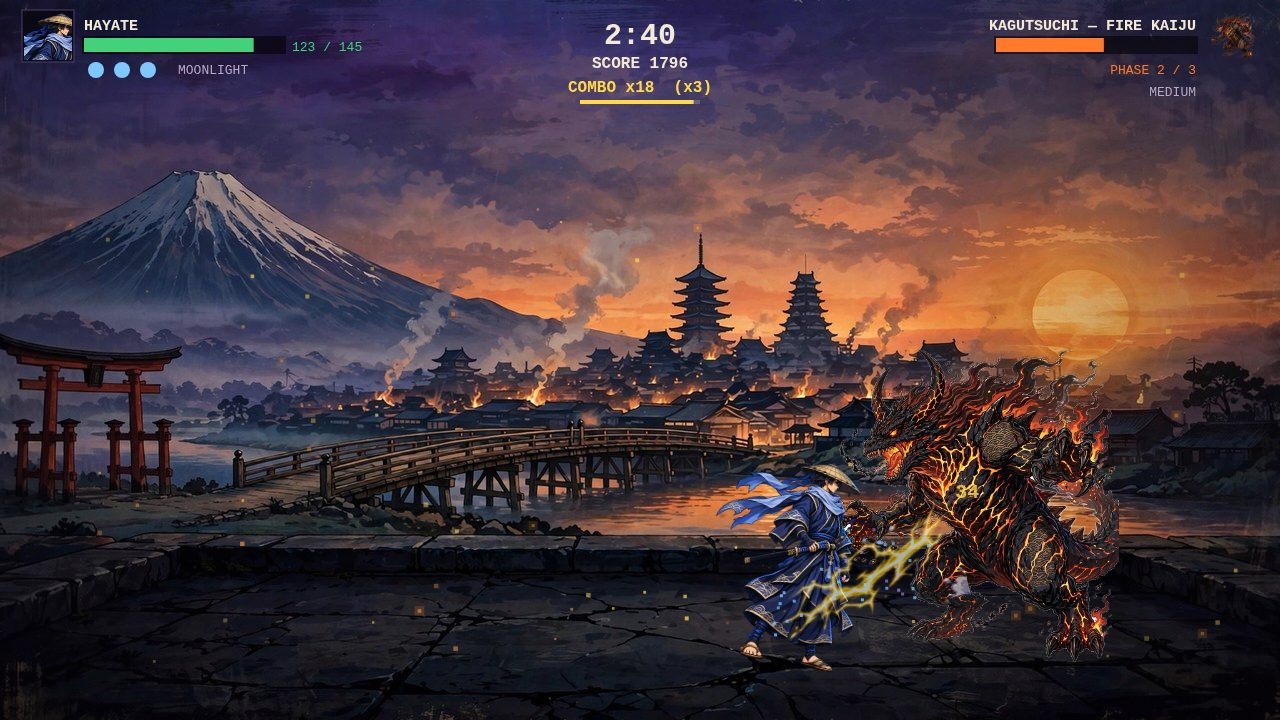
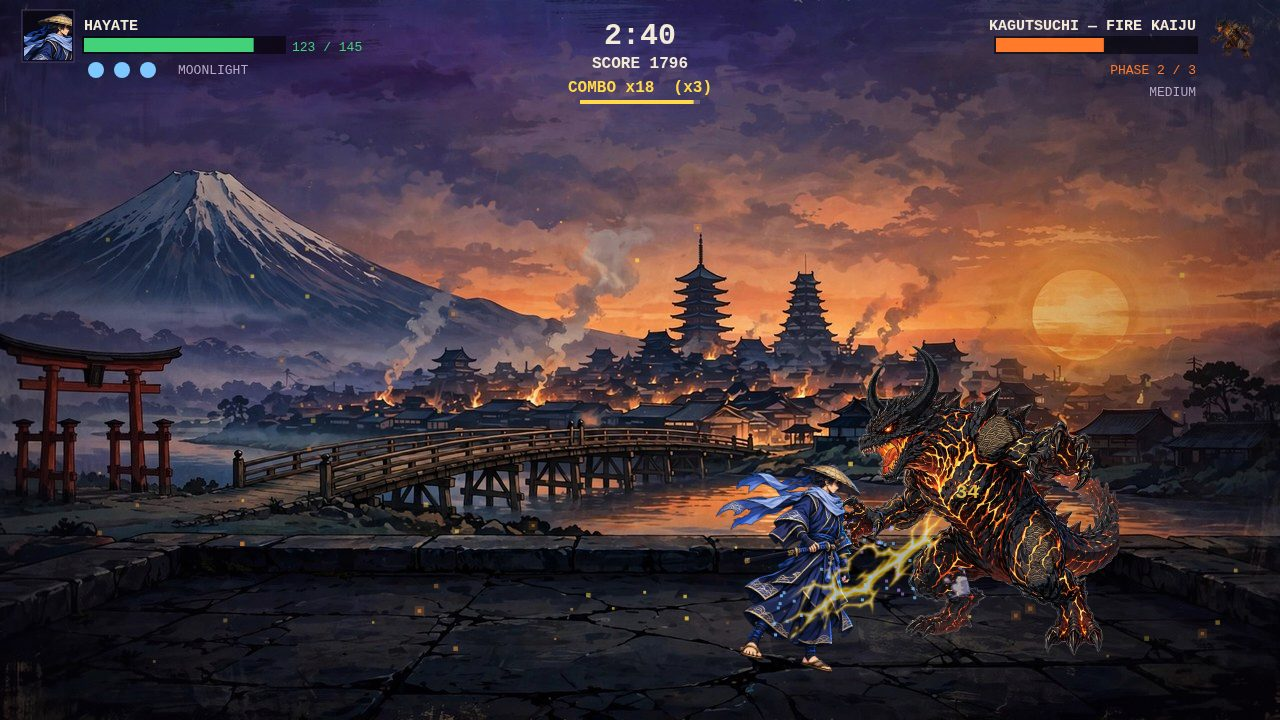
Clean kaiju art + idle breathing (no effects on characters)
- All three kaiju redrawn CLEAN, per user feedback: no smoke, no
  clouds, no flames, no water swirls, no lightning, no aura baked
  into the art — just the creature itself, a solid clean silhouette,
  same as the samurai art. The old kaiju had purple smoke (dragon),
  flame wisps (fire) and water swirls (sea) baked into the PNGs.
- Removed the code-drawn phase-3 aura circle around the kaiju — no
  added effects on the characters. Phase still reads in the HUD.
- Idle life, so the characters are never stiff: the kaiju breathes
  (slow 4px bob + a faint 0.02 rad sway while idle/recovering) and
  the ronin breathes (3px bob + a faint sway while idle). Both use
  the deterministic world clock, so determinism is preserved.
- Determinism byte-identical, gate exit 0, all 4 screenshots < 256 KiB.

diff --git a/game/src/render.js b/game/src/render.js
@@ -164,10 +164,12 @@ export function createRenderer(canvas, assets) {
     const img = heroImage(state);
     if (img) {
       // One static raster portrait, so the pose reads through motion: a
-      // gentle idle bob, a forward lean while running, a deep lean into the
-      // slash and the heavy iaido draw, and a white-hot flash when hurt.
-      let bob = Math.sin(elapsed * 2) * 2;
-      let tilt = 0;
+      // gentle idle breath (up-down bob plus a faint sway), a forward lean
+      // while running, a deep lean into the slash and the heavy iaido draw,
+      // and a white-hot flash when hurt. The hero is never frozen — even
+      // standing still, he breathes.
+      let bob = Math.sin(elapsed * 2) * 3;
+      let tilt = Math.sin(elapsed * 2 + 0.5) * 0.015;
       let filter = '';
       if (r.pose === 'run') {
         tilt = 0.08 * r.facing;
@@ -205,7 +207,13 @@ export function createRenderer(canvas, assets) {
     // The beast rears (lifts) during the telegraph and drops on the stomp.
     const rear = k.headRear * 28;
     const drop = k.bodyDrop * 18;
-    const bob = Math.sin(elapsed * 2.2) * 3;
+    // Idle life: the kaiju breathes. A slow up-down bob plus a faint sway,
+    // so it never stands frozen — the beast is alive even while it waits.
+    // The sway is small (a degree of tilt) and the bob is slow, so the
+    // silhouette stays clean and readable.
+    const breathing = k.state === 'idle' || k.state === 'recover';
+    const bob = breathing ? Math.sin(elapsed * 1.8) * 4 : Math.sin(elapsed * 2.2) * 3;
+    const sway = breathing ? Math.sin(elapsed * 1.8 + 0.6) * 0.02 : 0;
     const bottomY = FIELD.groundY + drop - rear + bob;
     // The raster kaiju when it loaded, the code-drawn pixel sprite
     // otherwise. The raster is drawn much taller than the hero (it is a
@@ -214,6 +222,7 @@ export function createRenderer(canvas, assets) {
     const kaijuImg = assets && assets[kaijuKey];
     if (kaijuImg) {
       drawRaster(kaijuImg, k.x, bottomY, 320, {
+        tilt: sway,
         filter: k.flash > 0 ? 'brightness(1.7) saturate(0.6)' : '',
       });
     } else {
@@ -226,16 +235,6 @@ export function createRenderer(canvas, assets) {
       if (k.flash > 0) ctx.filter = 'brightness(1.7) saturate(0.6)';
       drawPixelSprite(ctx, frame, k.x, bottomY, s);
       ctx.restore();
-    }
-    // Phase 3 aura: crackling light around the beast, in its own colour.
-    if (k.phase === 3) {
-      ctx.globalAlpha = 0.25 + 0.2 * Math.sin(elapsed * 9);
-      ctx.strokeStyle = KAIJU_TYPES[state.kaiju || 'fire'].aura;
-      ctx.lineWidth = 3;
-      ctx.beginPath();
-      ctx.arc(k.x, FIELD.groundY - 100, 170 + Math.sin(elapsed * 5) * 8, 0, Math.PI * 2);
-      ctx.stroke();
-      ctx.globalAlpha = 1;
     }
     // Shadow.
     ctx.fillStyle = 'rgba(0,0,0,0.4)';
